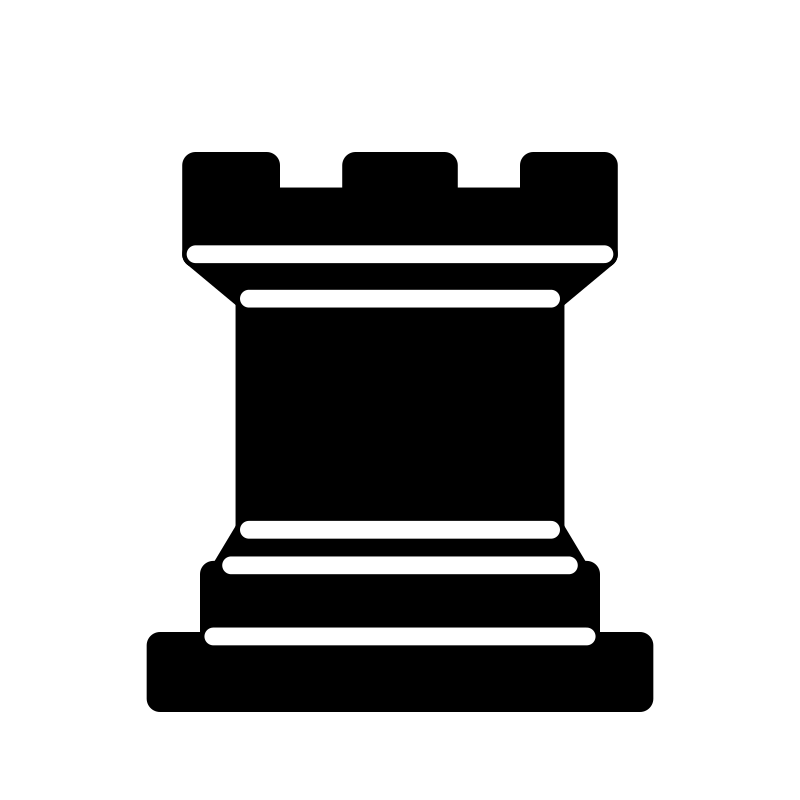
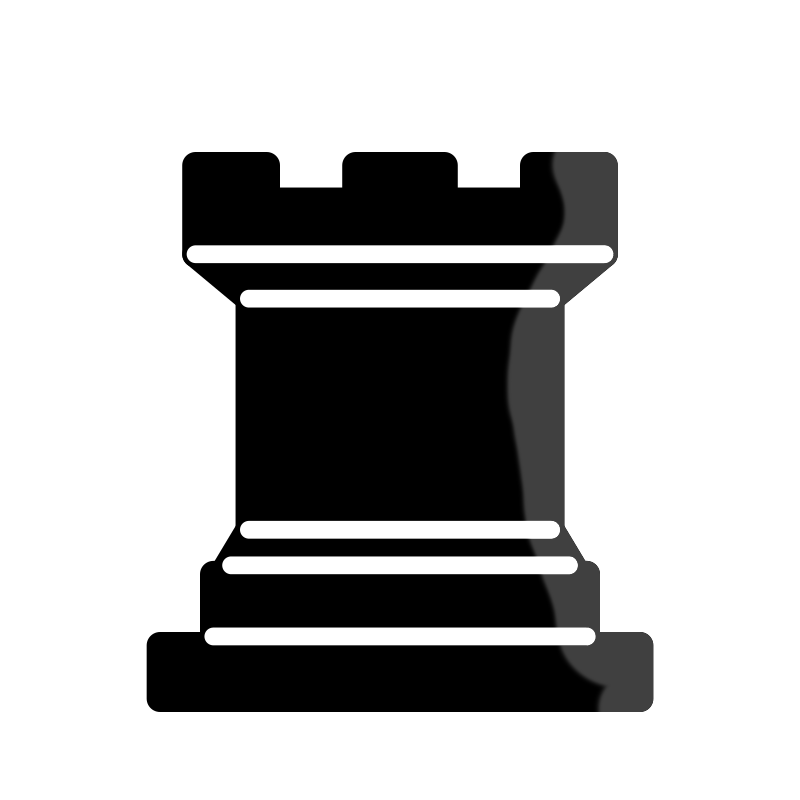
check and mate king color change

Changed region(s): [[0.625, 0.1875, 0.8438, 0.9062]]

diff --git a/pieces.py b/pieces.py
@@ -2,7 +2,8 @@ import pygame as pg
 from game_config import *
 
 class Piece(pg.sprite.Sprite):
-    def __init__(self, cell_size: int, color:str, field_name:str, file_posfix:str, is_pawn:bool = False):
+    def __init__(self, cell_size: int, color:str, field_name:str,
+        file_posfix:str, is_pawn:bool = False, outcome:str = False):
         super().__init__()
         picture = pg.image.load(PIECE_PATH + color + file_posfix).convert_alpha()
         self.image = pg.transform.scale(picture, (cell_size, cell_size))
@@ -10,6 +11,8 @@ class Piece(pg.sprite.Sprite):
         self.color = color
         self.field_name = field_name
         self.is_pawn = is_pawn
+        self.outcome = outcome
+
 
     def move_to_cell(self, cell): #will use it to draw rival's move
 
@@ -19,8 +22,11 @@ class Piece(pg.sprite.Sprite):
 
 
 class King(Piece):
-    def __init__(self, cell_size:int, color:str,field:str):
-        super().__init__(cell_size, color, field,'_king.png')
+    def __init__(self, cell_size:int, color:str,field:str,outcome:str=None):
+        img = '_king.png'
+        if outcome == "check": img = '_king_check.png'
+        if outcome == "checkmate": img = '_king_mate.png'
+        super().__init__(cell_size, color, field, img)
 
 class Queen(Piece):
     def __init__(self, cell_size:int, color:str,field:str):

diff --git a/engine.py b/engine.py
@@ -47,25 +47,22 @@ class Engine:
         engine = ce.Berlinerengine(self.board, maxDepth, color)
         self.board.push(engine.getBestMove())"""
 
-    #checks on game end
-    def endchecks(self):
-        endcheck = False
-        if self.board.is_checkmate():
-            print("Checkmate!")
-            endcheck = True
-        elif self.board.is_stalemate():
-            print("Stalemate -> DRAW")
-            endcheck = True
-        elif self.board.is_fivefold_repetition():
-            print("Fivefold repetition -> DRAW")
-            endcheck = True
-        elif self.board.is_fifty_moves():
-            print("Fifty moves -> DRAW")
-            endcheck = True
-        elif self.board.is_check():
-            print("Check!")
-            endcheck = True
-        return endcheck
+    @property
+    def outcome(self):
+        if self.__board.is_checkmate():
+            return "checkmate"
+        elif self.__board.is_stalemate():
+            return "stalemate"
+        elif self.__board.is_fivefold_repetition():
+            return "fivefold_repetion"
+        elif self.__board.is_fifty_moves():
+            return "fifty_moves"
+        elif self.__board.is_check():
+            return "check"
+        else:
+            return None
+
+
 
     #start a game
     #def startGame(self):

diff --git a/chess_items.py b/chess_items.py
@@ -149,7 +149,12 @@ class Chessboard:
         field_name = self.__to_field_name(table_coord)
         piece_tuple = self.__pieces_types[piece_symbol]
         classname = globals()[piece_tuple[0]]
-        return classname(self.__size, piece_tuple[1], field_name)
+        if piece_symbol in {"k","K"} and piece_tuple[1] == self.__engine.get_color():
+           return classname(self.__size, piece_tuple[1], field_name,self.__engine.outcome)
+        else:
+           return classname(self.__size, piece_tuple[1], field_name)
+
+
 
     def __to_field_name(self, table_coord:tuple):
         return LTRS[table_coord[1]] + str(self.__qty - table_coord[0])
